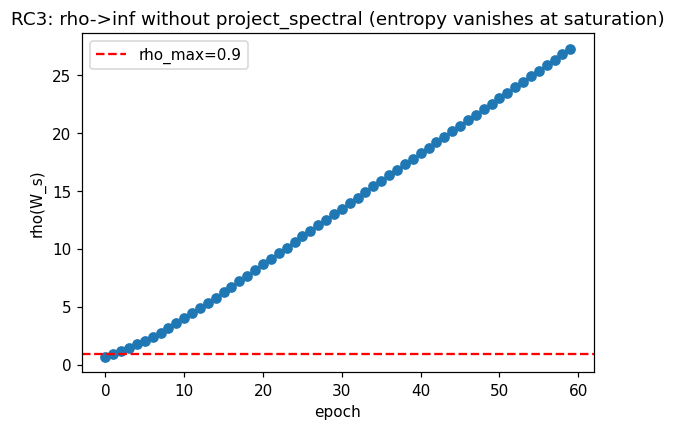
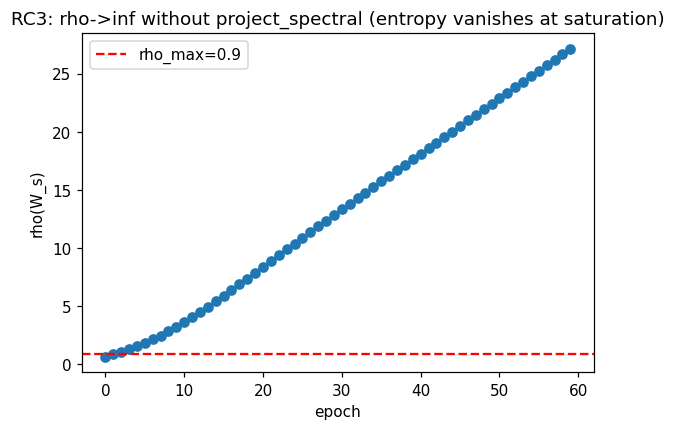
feat(ccpa): gate0 PASS (4/4 root causes confirmed)

diff --git a/experiments/ccpa/gate0.py b/experiments/ccpa/gate0.py
@@ -1,0 +1,62 @@
+"""gate0: run all D-RC diagnostics and emit the Phase 0 verdict.
+
+Rule (preregistered): >= 3 of 4 root causes (RC1/RC2/RC3/RC4) empirically
+confirmed => PASS => proceed to Phase 1. < 3 => FAIL => STOP, record negative,
+revisit the derivation. No post-hoc tuning.
+"""
+import json
+import os
+import subprocess
+import sys
+from experiments.ccpa import diag_common
+
+RC_SCRIPTS = {"RC1": "d_rc1_components", "RC2": "d_rc2_errorfloor",
+              "RC3": "d_rc3_rho_degeneracy", "RC4": "d_rc4_hessian_jacobian"}
+
+
+def _confirm_RC1(j):
+    fs = [r["F"] for r in j["rows"]]
+    return (max(fs) - min(fs)) > 0.1 * abs(sum(fs) / len(fs))  # F non-monotone across beta
+
+
+def _confirm_RC2(j):  # orthogonal (continuous) floor grows with beta
+    fo = j["orthogonal"]
+    return fo[-1] > 1.5 * fo[0]
+
+
+def _confirm_RC3(j):  # rho exceeds rho_max without cap
+    return j["rhos"][-1] > 0.9
+
+
+def _confirm_RC4(j):  # rho(DG) approaches 1 at beta_c (Curie signal)
+    bc = j["beta_c"]
+    rows = j["rows"]
+    near = min(rows, key=lambda r: abs(r["beta"] - bc))
+    return near["rho_DG"] > 0.8
+
+
+CHECKS = {"RC1": _confirm_RC1, "RC2": _confirm_RC2, "RC3": _confirm_RC3, "RC4": _confirm_RC4}
+
+
+def main(seed=0):
+    for rc, script in RC_SCRIPTS.items():
+        subprocess.run([sys.executable, "-m", f"experiments.ccpa.{script}", "--seed", str(seed)], check=True)
+    verdict = {}
+    for rc, script in RC_SCRIPTS.items():
+        with open(os.path.join(diag_common.RESULTS_DIR, script + ".json")) as f:
+            j = json.load(f)
+        verdict[rc] = {"confirmed": bool(CHECKS[rc](j))}
+    n_conf = sum(v["confirmed"] for v in verdict.values())
+    verdict["gate0"] = "PASS" if n_conf >= 3 else "FAIL"
+    payload = {"seed": seed, "verdict": verdict, "n_confirmed": n_conf,
+               "rule": ">=3 of 4 RCs confirmed => PASS"}
+    path = os.path.join(diag_common.RESULTS_DIR, "gate0.json")
+    json.dump(payload, open(path, "w"), indent=2)
+    print(json.dumps(payload, indent=2))
+    return verdict
+
+
+if __name__ == "__main__":
+    import argparse
+    ap = argparse.ArgumentParser(); ap.add_argument("--seed", type=int, default=0)
+    main(ap.parse_args().seed)